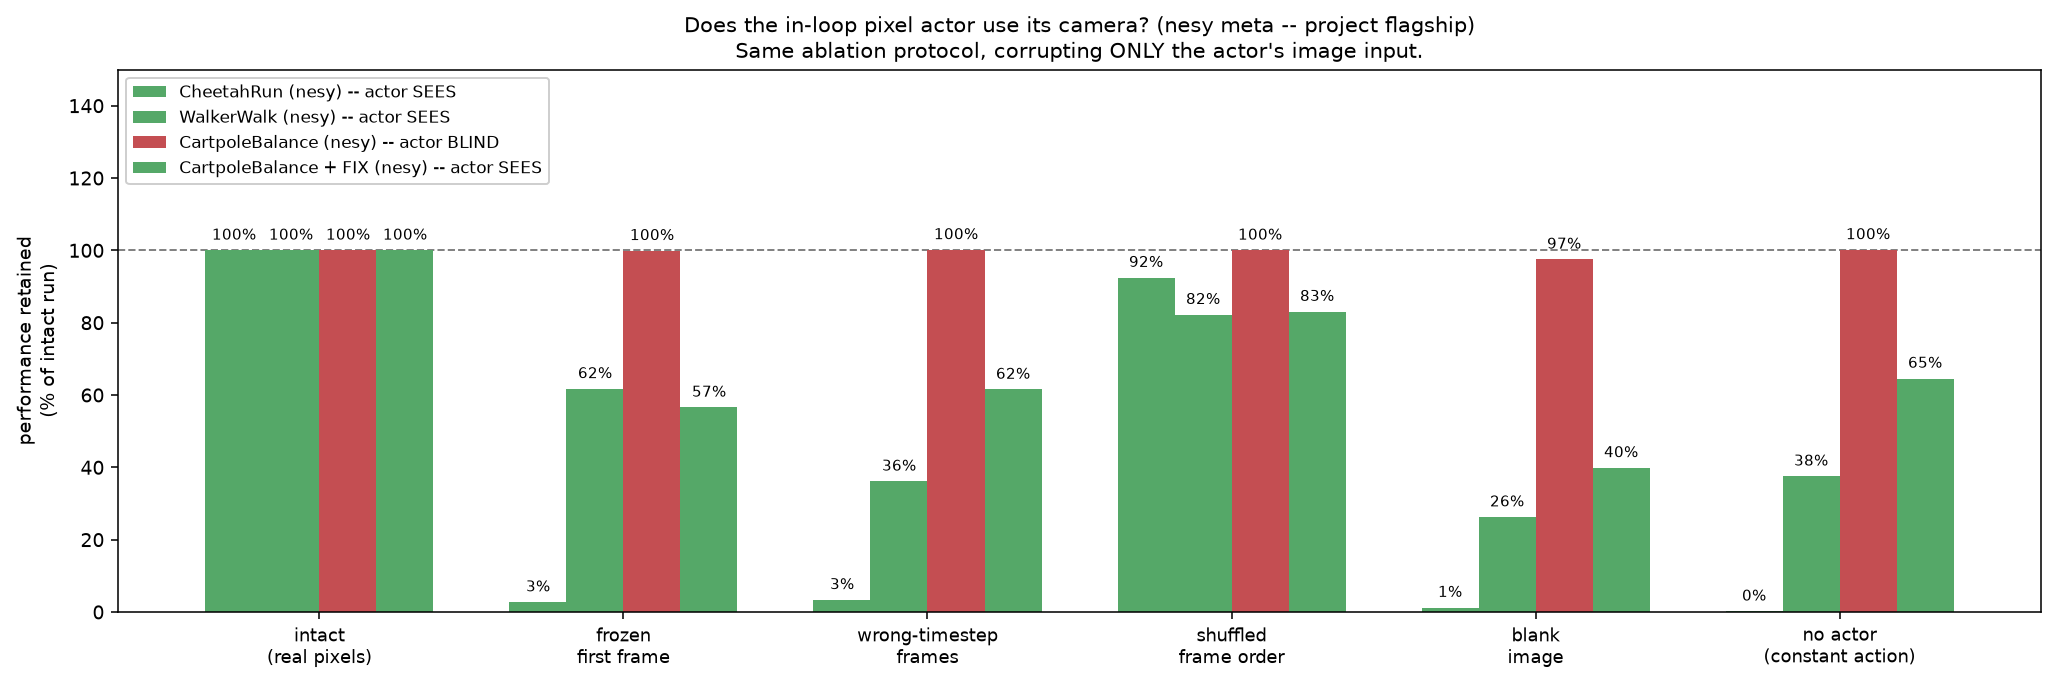
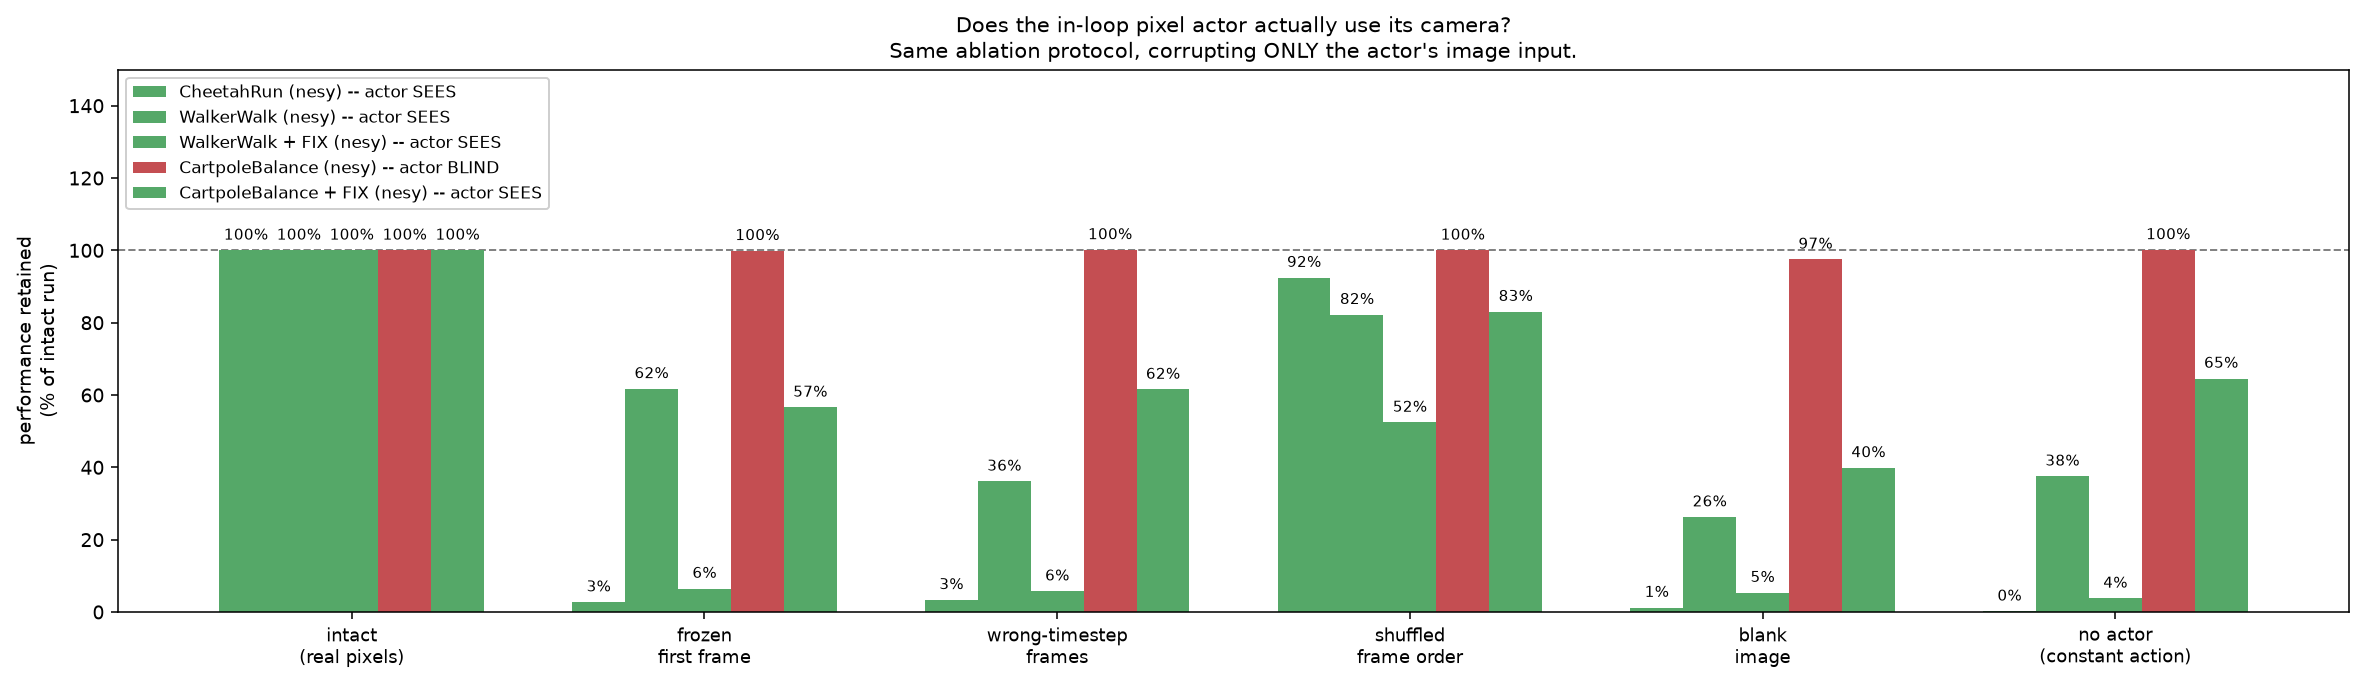
RGB: fix regression -- WalkerWalk+FIX dropped from summary figures
Found while re-verifying everything after the neural-cleanup commit: I visually
inspected the regenerated comparison_nesy.png and pixel_responsiveness_nesy.png
and both were missing the WalkerWalk + FIX series entirely (5 series -> 4,
5 skill-actor groups -> 4). The underlying data was never touched
(walker/nesy_fixed_seed0/ still has its full 9-file set) -- the bug was in the
--tags defaults I wrote for the neural-cleanup commit's subagent prompts, which
I based on my mid-session memory of the tag list from BEFORE the walker fix was
added to these two figures, omitting walker/nesy_fixed_seed0.

Added walker/nesy_fixed_seed0 back into both --tags defaults and their
docstring examples, regenerated both figures, and visually confirmed the fix:
comparison_nesy.png now shows 5 series again including "WalkerWalk + FIX
(nesy) -- actor SEES"; pixel_responsiveness_nesy.png now shows all 4 walker
skills at 32.7-38.1% (the complete post-fix recovery), not silently missing.

diff --git a/nexus_continuous_control/tools/plot_rgb_ablation_comparison.py b/nexus_continuous_control/tools/plot_rgb_ablation_comparison.py
@@ -9,7 +9,7 @@ Labels and colors are derived automatically from each run's rescored verdict
 red = BLIND, grey = INCONCLUSIVE (near-zero baseline, e.g. hopper).
 
     python tools/plot_rgb_ablation_comparison.py \
-        --tags cheetah/nesy_seed0,walker/nesy_blind,cartpole/nesy_blind,cartpole/nesy_fixed_seed0 \
+        --tags cheetah/nesy_seed0,walker/nesy_blind,walker/nesy_fixed_seed0,cartpole/nesy_blind,cartpole/nesy_fixed_seed0 \
         --out results/rgb/ablation/summary/comparison_nesy.png
 """
 
@@ -35,7 +35,7 @@ def main(argv: list[str] | None = None) -> None:
     ap = argparse.ArgumentParser(description=__doc__,
                                  formatter_class=argparse.RawDescriptionHelpFormatter)
     ap.add_argument("--runs", default="results/rgb/ablation")
-    ap.add_argument("--tags", default="cheetah/nesy_seed0,walker/nesy_blind,cartpole/nesy_blind,cartpole/nesy_fixed_seed0")
+    ap.add_argument("--tags", default="cheetah/nesy_seed0,walker/nesy_blind,walker/nesy_fixed_seed0,cartpole/nesy_blind,cartpole/nesy_fixed_seed0")
     ap.add_argument("--out", default="results/rgb/ablation/summary/comparison_nesy.png")
     ap.add_argument("--title", default="Does the in-loop pixel actor actually use its camera?")
     args = ap.parse_args(argv)

diff --git a/nexus_continuous_control/tools/plot_rgb_sensitivity_figure.py b/nexus_continuous_control/tools/plot_rgb_sensitivity_figure.py
@@ -9,7 +9,7 @@ constant -> ~0%.
 Log scale, because the interesting range spans four orders of magnitude.
 
     python tools/plot_rgb_sensitivity_figure.py \
-        --tags cartpole/nesy_blind,cartpole/nesy_fixed_seed0,cheetah/nesy_seed0,walker/nesy_blind \
+        --tags cartpole/nesy_blind,cartpole/nesy_fixed_seed0,cheetah/nesy_seed0,walker/nesy_blind,walker/nesy_fixed_seed0 \
         --out results/rgb/ablation/summary/pixel_responsiveness_nesy.png
 """
 
@@ -26,7 +26,7 @@ def main(argv: list[str] | None = None) -> None:
     ap = argparse.ArgumentParser(description=__doc__,
                                  formatter_class=argparse.RawDescriptionHelpFormatter)
     ap.add_argument("--root", default="results/rgb/ablation")
-    ap.add_argument("--tags", default="cartpole/nesy_blind,cartpole/nesy_fixed_seed0,cheetah/nesy_seed0,walker/nesy_blind")
+    ap.add_argument("--tags", default="cartpole/nesy_blind,cartpole/nesy_fixed_seed0,cheetah/nesy_seed0,walker/nesy_blind,walker/nesy_fixed_seed0")
     ap.add_argument("--out", default="results/rgb/ablation/summary/pixel_responsiveness_nesy.png")
     args = ap.parse_args(argv)
 
